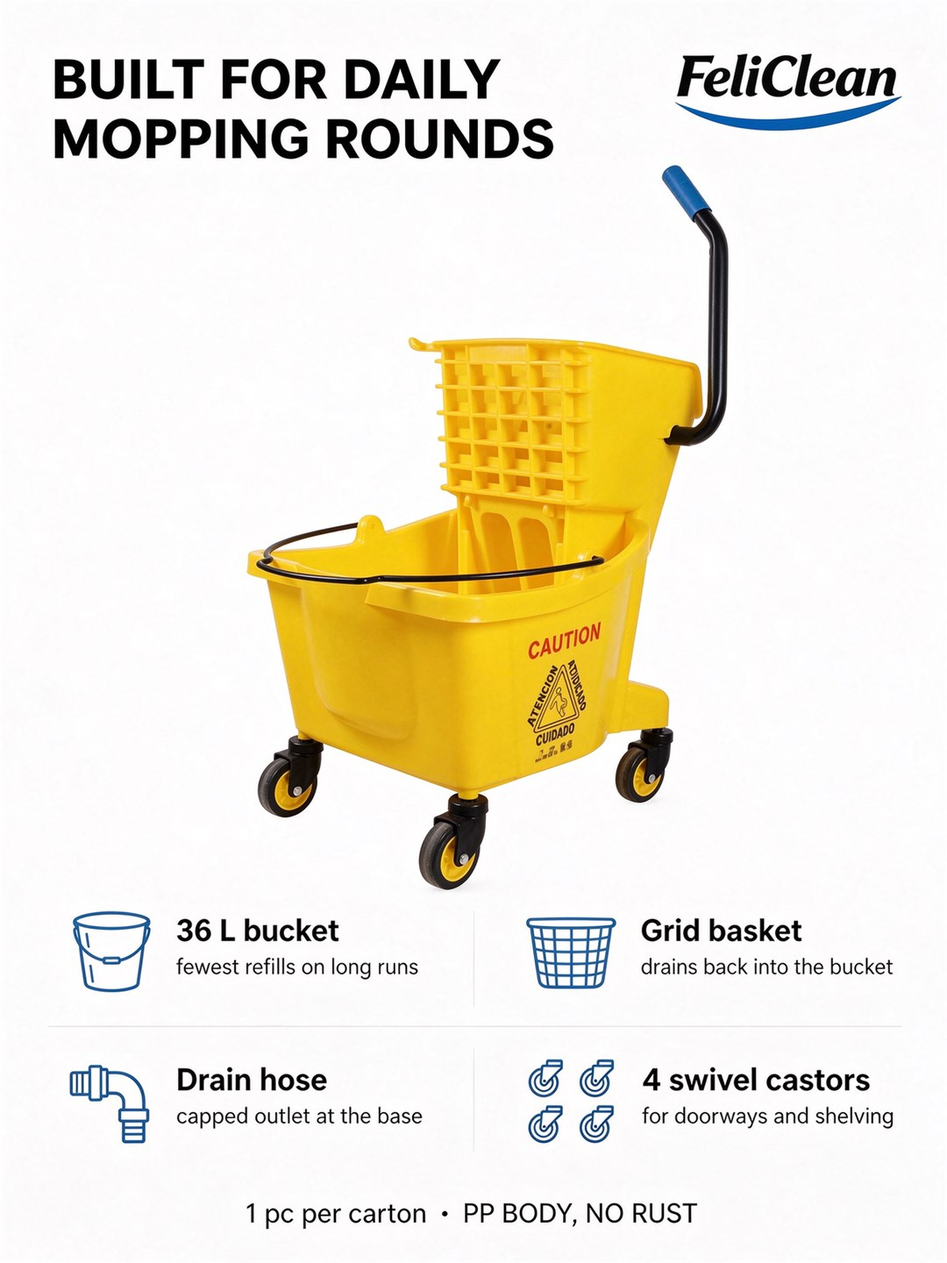
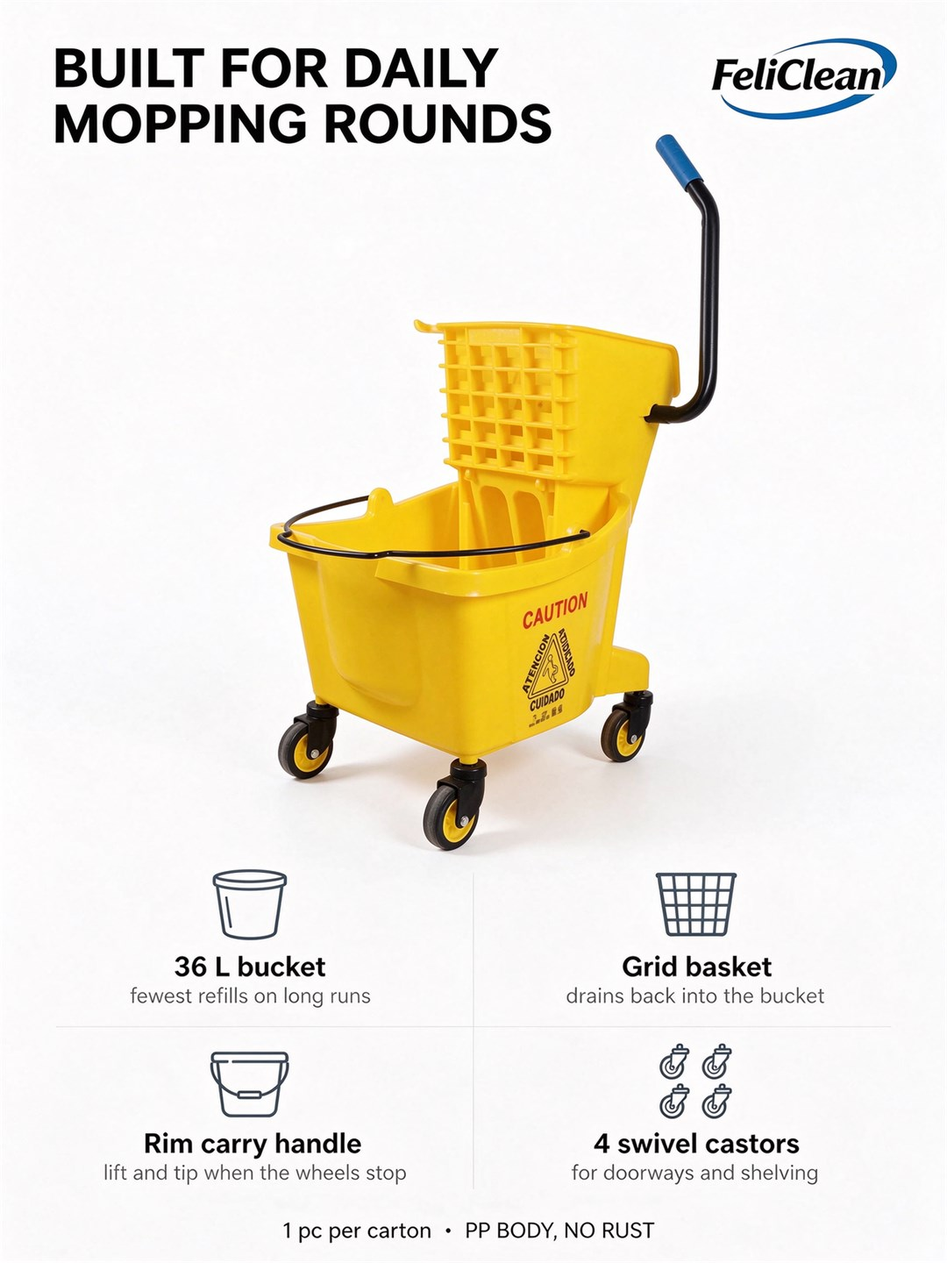
PWR-104A: correct spec to the supplied photo - no drain hose; rewrite title, meta, spec, features, description and JSON-LD, rename main image, regenerate poster 4 without hose, fix 103A/103B cross-links

diff --git a/pwr-104a.html b/pwr-104a.html
@@ -4,19 +4,19 @@
 <head>
   <meta charset="utf-8">
   <meta content="width=device-width, initial-scale=1.0" name="viewport">
-  <title>36L Single Mop Wringer Trolley with Drain Hose PWR-104A | Large Single-Bucket Mop Wringer for Schools, Warehouses &amp; Hospitals | Feliclean</title>
-  <meta name="description" content="36L single mop wringer trolley with drain hose PWR-104A for schools, hospitals, warehouses and large retail floors: one 36 litre bucket cuts refill trips, and the hose at the base lets you empty it without lifting. 55 × 39 × 91 cm, carton 51.5 × 41.5 × 36 cm, 1 pc per carton, four colours, factory direct from Guangzhou.">
-  <meta name="keywords" content="36L single mop wringer trolley with drain hose, large capacity mop wringer bucket, single bucket mop wringer trolley with drain hose, commercial mop wringer trolley, janitorial mop bucket 36 litre, PWR-104A">
+  <title>36L Single Mop Wringer Trolley PWR-104A | Large Single-Bucket Mop Wringer for Schools, Warehouses &amp; Hospitals | Feliclean</title>
+  <meta name="description" content="36L single mop wringer trolley PWR-104A for schools, hospitals, warehouses and large retail floors: a 36 litre bucket with a clip-on PP wringer basket cuts refill trips on long floors, four swivel castors and a rim carry handle for the last few metres. 55 × 39 × 91 cm, carton 51.5 × 41.5 × 36 cm, 1 pc per carton, four colours, factory direct from Guangzhou.">
+  <meta name="keywords" content="36L single mop wringer trolley, large capacity mop wringer bucket, 36 litre mop wringer trolley, commercial mop wringer trolley, single bucket mop wringer bucket, janitorial mop bucket 36 litre, PWR-104A">
   <link rel="canonical" href="https://feliclean.com/pwr-104a.html">
   <meta name="robots" content="index, follow">
 
   <meta property="og:type" content="product">
   <meta property="og:site_name" content="FeliClean">
-  <meta property="og:title" content="36L Single Mop Wringer Trolley with Drain Hose PWR-104A | Large Single-Bucket Mop Wringer for Schools, Warehouses and Hospitals">
-  <meta property="og:description" content="One 36 L bucket, a PP grid wringer basket over the rim and a capped drain hose at the base: fewer refills on long floors, and no lifting 36 litres of dirty water. 55 x 39 x 91 cm, 1 pc per carton, four colours.">
+  <meta property="og:title" content="36L Single Mop Wringer Trolley PWR-104A | Large Single-Bucket Mop Wringer for Schools, Warehouses and Hospitals">
+  <meta property="og:description" content="One 36 L bucket with a clip-on PP wringer basket over the rim: fewer refills on long floors, and a rim carry handle for the last few metres the castors cannot reach. 55 x 39 x 91 cm, 1 pc per carton, four colours.">
   <meta property="og:url" content="https://feliclean.com/pwr-104a.html">
-  <meta property="og:image" content="https://feliclean.com/assets/img/products/pwr-104a/pwr-104a-36l-single-mop-wringer-trolley-with-drain-hose-white-background.jpg">
-  <meta property="og:image:alt" content="36L single mop wringer trolley with drain hose PWR-104A, PP wringer basket and four swivel castors, white background">
+  <meta property="og:image" content="https://feliclean.com/assets/img/products/pwr-104a/pwr-104a-36l-single-mop-wringer-trolley-white-background.jpg">
+  <meta property="og:image:alt" content="36L single mop wringer trolley PWR-104A, clip-on PP wringer basket and four swivel castors, white background">
   <meta name="twitter:card" content="summary_large_image">
 
   <link href="assets/img/favicon.png" rel="icon">
@@ -38,13 +38,13 @@
 {
   "@context": "https://schema.org",
   "@type": "Product",
-  "name": "36L Single Mop Wringer Trolley with Drain Hose PWR-104A",
+  "name": "36L Single Mop Wringer Trolley PWR-104A",
   "sku": "PWR-104A",
   "mpn": "PWR-104A",
-  "category": "Large capacity single bucket mop wringer trolley with drain hose for schools, hospitals, warehouses and large retail floors",
-  "description": "36 litre single mop wringer trolley (PWR-104A) with a PP grid wringer basket over the bucket rim and a capped drain hose at the base, a carry handle on the rim and four swivel castors. Overall size 55 × 39 × 91 cm, carton 51.5 × 41.5 × 36 cm, 1 pc per carton, available in yellow, green, blue and red.",
+  "category": "Large capacity single bucket mop wringer trolley for schools, hospitals, warehouses and large retail floors",
+  "description": "36 litre single mop wringer trolley (PWR-104A) with a clip-on PP grid wringer basket hooked over the bucket rim, a rim carry handle and four swivel castors. Overall size 55 × 39 × 91 cm, carton 51.5 × 41.5 × 36 cm, 1 pc per carton, available in yellow, green, blue and red.",
   "image": [
-    "https://feliclean.com/assets/img/products/pwr-104a/pwr-104a-36l-single-mop-wringer-trolley-with-drain-hose-white-background.jpg",
+    "https://feliclean.com/assets/img/products/pwr-104a/pwr-104a-36l-single-mop-wringer-trolley-white-background.jpg",
     "https://feliclean.com/assets/img/products/pwr-104a/pwr-104a-poster-1-36l-single-mop-wringer-trolley.jpg",
     "https://feliclean.com/assets/img/products/pwr-104a/pwr-104a-poster-3-clip-on-wringer-basket.jpg"
   ],
@@ -82,11 +82,6 @@
       "@type": "PropertyValue",
       "name": "Wringer attachment",
       "value": "Clip-on PP basket hooked over the bucket rim"
-    },
-    {
-      "@type": "PropertyValue",
-      "name": "Drain",
-      "value": "Capped drain hose at the base"
     },
     {
       "@type": "PropertyValue",
@@ -184,15 +179,15 @@
           <div class="pdp-left">
           <div class="pdp-gallery">
             <div class="pdp-thumbs pdp-thumbs--many">
-              <button class="pdp-thumb active" data-full="assets/img/products/pwr-104a/pwr-104a-36l-single-mop-wringer-trolley-with-drain-hose-white-background.jpg" type="button"><img src="assets/img/products/pwr-104a/pwr-104a-36l-single-mop-wringer-trolley-with-drain-hose-white-background.jpg" alt="36L single mop wringer trolley with drain hose PWR-104A and four swivel castors for schools and hospitals, white background"></button>
-              <button class="pdp-thumb" data-full="assets/img/products/pwr-104a/pwr-104a-poster-1-36l-single-mop-wringer-trolley.jpg" type="button"><img src="assets/img/products/pwr-104a/pwr-104a-poster-1-36l-single-mop-wringer-trolley.jpg" alt="36L single mop wringer trolley with drain hose PWR-104A poster showing 36 L capacity, single bucket and 4 swivel castors for large floor cleaning"></button>
+              <button class="pdp-thumb active" data-full="assets/img/products/pwr-104a/pwr-104a-36l-single-mop-wringer-trolley-white-background.jpg" type="button"><img src="assets/img/products/pwr-104a/pwr-104a-36l-single-mop-wringer-trolley-white-background.jpg" alt="36L single mop wringer trolley PWR-104A and four swivel castors for schools and hospitals, white background"></button>
+              <button class="pdp-thumb" data-full="assets/img/products/pwr-104a/pwr-104a-poster-1-36l-single-mop-wringer-trolley.jpg" type="button"><img src="assets/img/products/pwr-104a/pwr-104a-poster-1-36l-single-mop-wringer-trolley.jpg" alt="36L single mop wringer trolley PWR-104A poster showing 36 L capacity, clip-on wringer basket and 4 swivel castors for large floor cleaning"></button>
               <button class="pdp-thumb" data-full="assets/img/products/pwr-104a/pwr-104a-poster-2-dimensions-and-carton.jpg" type="button"><img src="assets/img/products/pwr-104a/pwr-104a-poster-2-dimensions-and-carton.jpg" alt="PWR-104A mop wringer trolley dimensions poster showing 55 x 39 x 91 cm overall size and 51.5 x 41.5 x 36 cm carton for freight quotes"></button>
               <button class="pdp-thumb" data-full="assets/img/products/pwr-104a/pwr-104a-poster-3-clip-on-wringer-basket.jpg" type="button"><img src="assets/img/products/pwr-104a/pwr-104a-poster-3-clip-on-wringer-basket.jpg" alt="PWR-104A 36 litre mop wringer trolley poster showing the clip-on PP wringer basket hook locked over the bucket rim with grid drainage, for schools and warehouses"></button>
-              <button class="pdp-thumb" data-full="assets/img/products/pwr-104a/pwr-104a-poster-4-built-for-daily-mopping.jpg" type="button"><img src="assets/img/products/pwr-104a/pwr-104a-poster-4-built-for-daily-mopping.jpg" alt="PWR-104A mop wringer bucket poster with rust-free PP body, grid wringer basket, drain hose and four swivel castors built for daily mopping rounds"></button>
+              <button class="pdp-thumb" data-full="assets/img/products/pwr-104a/pwr-104a-poster-4-built-for-daily-mopping.jpg" type="button"><img src="assets/img/products/pwr-104a/pwr-104a-poster-4-built-for-daily-mopping.jpg" alt="PWR-104A mop wringer bucket poster with rust-free PP body, clip-on grid wringer basket, rim carry handle and four swivel castors built for daily mopping rounds"></button>
               <button class="pdp-thumb" data-full="assets/img/products/pwr-104a/pwr-104a-poster-5-factory-direct-guangzhou.jpg" type="button"><img src="assets/img/products/pwr-104a/pwr-104a-poster-5-factory-direct-guangzhou.jpg" alt="PWR-104A mop wringer trolley factory direct poster from Guangzhou with four colours, sample orders, OEM logo and EXW FOB CIF terms"></button>
             </div>
             <div class="pdp-main pdp-main--cap" id="pdpMain">
-              <img src="assets/img/products/pwr-104a/pwr-104a-36l-single-mop-wringer-trolley-with-drain-hose-white-background.jpg" alt="FeliClean PWR-104A 36L single mop wringer trolley with drain hose product main image, four swivel castors">
+              <img src="assets/img/products/pwr-104a/pwr-104a-36l-single-mop-wringer-trolley-white-background.jpg" alt="FeliClean PWR-104A 36L single mop wringer trolley product main image, clip-on wringer basket and four swivel castors">
             </div>
           </div>
 
@@ -201,13 +196,13 @@
               <table class="sd-spec-table">
                 <tbody>
                   <tr><th>Model</th><td>PWR-104A</td></tr>
-                  <tr><th>Product type</th><td>Single bucket mop wringer trolley with drain hose</td></tr>
+                  <tr><th>Product type</th><td>Single bucket mop wringer trolley (no drain hose)</td></tr>
                   <tr><th>Capacity</th><td>36 L</td></tr>
                   <tr><th>Overall size</th><td>55 × 39 × 91 cm (L × W × H, handle included)</td></tr>
                   <tr><th>Carton dimension</td><td>51.5 × 41.5 × 36 cm</td></tr>
                   <tr><th>Body material</th><td>Injection-moulded PP bucket and PP wringer basket</td></tr>
                   <tr><th>Wringer</th><td>Clip-on PP grid wringer basket, hooked over the bucket rim</td></tr>
-                  <tr><th>Drain</td><td>Capped drain hose at the base — empty without lifting</td></tr>
+                  <tr><th>Drain</th><td>No drain outlet on this model — bucket emptied by tipping at a floor drain or slop sink</td></tr>
                   <tr><th>Wheels</th><td>4 swivel castors with yellow rims</td></tr>
                   <tr><th>Colours</td><td>Yellow (standard), green, blue, red</td></tr>
                   <tr><th>Package</th><td>1 pc / ctn</td></tr>
@@ -216,17 +211,17 @@
             </div>
 
             <div class="pdp-desc">
-              <p>The PWR-104A is the 36 litre single bucket in our wringer trolley range with a capped drain hose at the base — the model for long floors where a 24 litre fill runs out before the job does, and where nobody wants to lift a full bucket at the end of a shift. Corridors, school halls, hospital wards, warehouse aisles, supermarket walkways and factory floors all mean the same thing in practice: fewer trips back to the tap, and the dirty water leaves the bucket without being carried.</p>
+              <p>The PWR-104A is the 36 litre single bucket in our wringer trolley range — the model for long floors where a 24 litre fill runs out before the job does. Corridors, school halls, hospital wards, warehouse aisles, supermarket walkways and factory floors all mean the same thing in practice: fewer trips back to the tap, and a bucket that still fits through a doorway with the mop in it. This is the plain bucket version: there is no hose outlet, so the dirty water leaves by tipping the bucket over a floor drain or a slop sink.</p>
               <p>Wringing happens over the bucket. The mop goes onto the PP grid basket at the rear, pressure squeezes the water out, and the grid drains it straight back into the fill instead of across the tiles. The mop leaves damp rather than dripping, so a floor takes one pass and the water you are mopping with goes further. The basket is a clip-on unit: its moulded hook seats over the bucket rim and locks there, so it stays put while you press, and the same hook lets you lift it off with one hand when it needs rinsing.</p>
-              <p>Emptying is the difference between this model and the plain bucket version. The drain hose sits at the base of the bucket under a cap: pull the trolley up to a floor drain or a gully, open the cap, and 36 litres run out through the hose while the trolley stays on its castors. No lifting, no tipping, no spill across the doorway. The cap stays tight while you mop, so the hose does not drip into the bucket you are working from, and there is nothing inside the bucket to kink or clog.</p>
-              <p>Everything that touches water is PP: bucket, wringer basket, hose outlet and the rim handle used when the wheels cannot go. Four swivel castors turn on the spot in a doorway or between shelving, and the bucket stands 90 cm at the handle, so pushing it does not mean stooping. Overall 55 × 39 × 91 cm with the handle; one piece packs into a 51.5 × 41.5 × 36 cm carton, which keeps sample freight and courier costs predictable. Yellow is stocked; green, blue and red are moulded to order so sites can colour-code by floor or by department.</p>
-              <p>Supply side: trolleys ship from our Guangzhou works, so trial quantities and single samples leave quickly, and mixed containers can be built with mops, dustbins, caution boards and service carts from the same catalogue. We quote EXW, FOB or CIF, print your logo for OEM and ODM orders, and keep spare castors, wringer baskets and hose caps for the life of the trolley. If you would rather empty by tipping than by hose, the <a href="pwr-103a.html">32 L single mop wringer trolley PWR-103A</a> is the plain bucket version; the <a href="pwr-103b.html">32 L single mop wringer trolley with the same drain hose PWR-103B</a> is one size down if your rooms need a smaller bucket; and if you want an even shorter run, compare the <a href="pwr-102b.html">24 L single mop wringer trolley with drain hose PWR-102B</a> and the <a href="pwr-102a.html">24 L single mop wringer trolley PWR-102A</a>; for clean and dirty water kept apart, the <a href="pwr-101.html">34 L double mop wringer trolley PWR-101</a> is the two-chamber option. Tell us the site, the quantity and the destination port, and we reply within one working day.</p>
+              <p>Emptying is manual on this model, and the rim handle is what makes it workable. Grip the black handle across the rim, lift the bucket clear and tip it over a floor drain or a janitor sink: the moulded lip directs the water into the drain instead of letting it spread across the floor, and the whole 36 litres go out in one controlled pour. Nothing to unclip, nothing to kink, and no hose to drip between fills. If emptying by hand is not acceptable on your site, the hose models do the same job from the base of the bucket.</p>
+              <p>Everything that touches water is PP: bucket, wringer basket and the rim handle used when the wheels cannot go. Four swivel castors turn on the spot in a doorway or between shelving, and the bucket stands 90 cm at the handle, so pushing it does not mean stooping. Overall 55 × 39 × 91 cm with the handle; one piece packs into a 51.5 × 41.5 × 36 cm carton, which keeps sample freight and courier costs predictable. Yellow is stocked; green, blue and red are moulded to order so sites can colour-code by floor or by department.</p>
+              <p>Supply side: trolleys ship from our Guangzhou works, so trial quantities and single samples leave quickly, and mixed containers can be built with mops, dustbins, caution boards and service carts from the same catalogue. We quote EXW, FOB or CIF, print your logo for OEM and ODM orders, and keep spare castors and wringer baskets for the life of the trolley. If you would rather not tip 36 litres by hand, the <a href="pwr-103b.html">32 L single mop wringer trolley with a capped drain hose PWR-103B</a> empties through a hose at the base; the <a href="pwr-103a.html">32 L single mop wringer trolley PWR-103A</a> is the same plain bucket one size down; for a shorter run compare the <a href="pwr-102b.html">24 L single mop wringer trolley with drain hose PWR-102B</a> and the <a href="pwr-102a.html">24 L single mop wringer trolley PWR-102A</a>; and for clean and dirty water kept apart, the <a href="pwr-101.html">34 L double mop wringer trolley PWR-101</a> is the two-chamber option. Tell us the site, the quantity and the destination port, and we reply within one working day.</p>
             </div>
           </div>
 
           <div class="pdp-info">
             <h1 class="pdp-title">36L Single Mop Wringer Trolley <span style="white-space:nowrap">PWR-104A</span></h1>
-            <p class="pdp-lead">A 36 litre single bucket with a PP wringer basket and a capped drain hose at the base, for schools, hospitals, warehouses and large retail floors: fewer refills on long runs, and the bucket empties without being lifted.</p>
+            <p class="pdp-lead">A 36 litre single bucket with a clip-on PP wringer basket, for schools, hospitals, warehouses and large retail floors: fewer refills on long runs, and a rim carry handle for the last few metres the castors cannot reach.</p>
 
             <div class="pdp-meta">
               <div class="pdp-meta-row"><span class="k">Model</span><span class="v">PWR-104A</span></div>
@@ -238,11 +233,11 @@
 
             <div class="sd-features">
               <div class="sd-feature"><i class="bi bi-check-circle-fill"></i>36 L fill: half as much water again as a 24 L bucket, so long corridors and warehouse aisles need fewer trips back to the tap.</div>
-              <div class="sd-feature"><i class="bi bi-check-circle-fill"></i>Capped drain hose at the base: pull up to a floor drain, open the cap and the bucket empties without lifting 36 litres of dirty water.</div>
-              <div class="sd-feature"><i class="bi bi-check-circle-fill"></i>PP grid wringer basket over the bucket: pressure squeezes the mop and the grid drains the water back into the fill, not onto the floor.</div>
-              <div class="sd-feature"><i class="bi bi-check-circle-fill"></i>Injection-moulded PP body, basket and hose outlet: no rust, resistant to bathroom, kitchen and industrial detergents.</div>
+              <div class="sd-feature"><i class="bi bi-check-circle-fill"></i>Rim carry handle: the black handle across the bucket rim takes the weight when you lift the bucket out to empty it or to fill it at a sink.</div>
+              <div class="sd-feature"><i class="bi bi-check-circle-fill"></i>Clip-on PP wringer basket hooked over the rim: pressure squeezes the mop and the grid drains the water back into the fill, not onto the floor.</div>
+              <div class="sd-feature"><i class="bi bi-check-circle-fill"></i>Injection-moulded PP body and basket: no rust, resistant to bathroom, kitchen and industrial detergents.</div>
               <div class="sd-feature"><i class="bi bi-check-circle-fill"></i>Four swivel castors with yellow rims, and a black rim handle for the places the wheels cannot go; 90 cm at the handle, so pushing does not mean stooping.</div>
-              <div class="sd-feature"><i class="bi bi-check-circle-fill"></i><span>55 × 39 × 91 cm, 51.5 × 41.5 × 36 cm carton, 1 pc per carton; yellow in stock, green / blue / red on request, samples and mixed containers from Guangzhou. Prefer emptying by tipping? See the <a href="pwr-103a.html">plain bucket 32 L PWR-103A</a>.</span></div>
+              <div class="sd-feature"><i class="bi bi-check-circle-fill"></i><span>55 × 39 × 91 cm, 51.5 × 41.5 × 36 cm carton, 1 pc per carton; yellow in stock, green / blue / red on request, samples and mixed containers from Guangzhou. Need a drain hose? The <a href="pwr-103b.html">32 L PWR-103B</a> and <a href="pwr-102b.html">24 L PWR-102B</a> empty through a capped hose at the base.</span></div>
             </div>
 
             <div class="pdp-actions">
@@ -378,7 +373,7 @@
       var quote = document.getElementById('quoteBtn');
       var wa = document.getElementById('waBtn');
       var MODEL = 'PWR-104A';
-      var PRODUCT = '36L Single Mop Wringer Trolley with Drain Hose PWR-104A';
+      var PRODUCT = '36L Single Mop Wringer Trolley PWR-104A';
       var WA_NUMBER = '8613427520701';
       var MAIL_TO = 'info@feliclean.com';
       function refresh() {

diff --git a/pwr-103a.html b/pwr-103a.html
@@ -219,7 +219,7 @@
             <div class="pdp-desc">
               <p>The PWR-103A is the 32 litre single bucket in our wringer trolley range — the model for long floors where a 24 litre fill runs out before the job does. Corridors, school halls, hospital wards, warehouse aisles, supermarket walkways and factory floors all mean the same thing in practice: fewer trips back to the tap, and a trolley that still pushes easily on four castors while it is heavy with water.</p>
               <p>Wringing is done over the bucket: the basket is a clip-on unit whose hook seats over the bucket rim, so it stays put while you press. The mop goes onto the PP grid, pressure squeezes the water out, and the grid drains it straight back into the fill instead of across the tiles. The mop leaves damp rather than dripping, so a floor takes one pass and the water you are mopping with goes further. When the basket needs rinsing, the same hook lets you lift it off with one hand.</p>
-              <p>This model is the plain bucket version: there is no drain hose on PWR-103A, so the bucket is emptied by tipping it over a floor drain or a toilet — the basket comes off first, and 32 litres then pours out in a straight stream with no hose to kink or clog. If emptying by hose matters more to you, the <a href="pwr-103b.html">32 L single mop wringer trolley with drain hose PWR-103B</a> is the same bucket with a capped hose at the base, the <a href="pwr-104a.html">36 L single mop wringer trolley with drain hose PWR-104A</a> adds capacity on top of that, and the <a href="pwr-102b.html">24 L single mop wringer trolley PWR-102B</a> is the smaller hose version of the range.</p>
+              <p>This model is the plain bucket version: there is no drain hose on PWR-103A, so the bucket is emptied by tipping it over a floor drain or a toilet — the basket comes off first, and 32 litres then pours out in a straight stream with no hose to kink or clog. If emptying by hose matters more to you, the <a href="pwr-103b.html">32 L single mop wringer trolley with drain hose PWR-103B</a> is the same bucket with a capped hose at the base, the <a href="pwr-104a.html">36 L single mop wringer trolley PWR-104A</a> adds capacity on top of that (same plain bucket, no hose), and the <a href="pwr-102b.html">24 L single mop wringer trolley PWR-102B</a> is the smaller hose version of the range.</p>
               <p>Everything that touches water is PP: bucket, wringer basket and the rim handle used when the wheels cannot go. The frame weighs about 7 kg empty, light enough to lift into a van or up a service stair, and the four swivel castors turn on the spot in a doorway or between shelving. Overall 54 × 38 × 90 cm with the handle; one piece packs into a 51.5 × 41.5 × 36 cm carton, which keeps sample freight and courier costs predictable. Yellow is stocked; green, blue and red are moulded to order so sites can colour-code by floor or by department.</p>
               <p>Supply side: trolleys ship from our Guangzhou works, so trial quantities and single samples leave quickly, and mixed containers can be built with mops, dustbins, caution boards and service carts from the same catalogue. We quote EXW, FOB or CIF, print your logo for OEM and ODM orders, and keep spare castors, wringer baskets and rim handles for the life of the trolley. If a smaller bucket suits your rooms better, compare the <a href="pwr-102b.html">24 L single mop wringer trolley with drain hose PWR-102B</a> and the <a href="pwr-102a.html">24 L single mop wringer trolley PWR-102A</a>; for clean and dirty water kept apart, the <a href="pwr-101.html">34 L double mop wringer trolley PWR-101</a> is the two-chamber version. Tell us the site, the quantity and the destination port, and we reply within one working day.</p>
             </div>

diff --git a/pwr-103b.html b/pwr-103b.html
@@ -237,7 +237,7 @@
               <div class="sd-feature"><i class="bi bi-check-circle-fill"></i>PP grid wringer basket over the bucket: pressure squeezes the mop and the grid drains the water back into the fill, not onto the floor.</div>
               <div class="sd-feature"><i class="bi bi-check-circle-fill"></i>Injection-moulded PP body, basket and hose outlet: no rust, resistant to bathroom, kitchen and industrial detergents.</div>
               <div class="sd-feature"><i class="bi bi-check-circle-fill"></i>Four swivel castors with yellow rims, and a black rim handle for the places the wheels cannot go; 90 cm at the handle, so pushing does not mean stooping.</div>
-              <div class="sd-feature"><i class="bi bi-check-circle-fill"></i><span>56 × 35 × 90 cm, 50.5 × 39 × 36.5 cm carton, 1 pc per carton; yellow in stock, green / blue / red on request, samples and mixed containers from Guangzhou. Prefer emptying by tipping? See the <a href="pwr-103a.html">plain bucket 32 L PWR-103A</a>. Need more water? The <a href="pwr-104a.html">36 L PWR-104A</a> is the same hose in a bigger bucket.</span></div>
+              <div class="sd-feature"><i class="bi bi-check-circle-fill"></i><span>56 × 35 × 90 cm, 50.5 × 39 × 36.5 cm carton, 1 pc per carton; yellow in stock, green / blue / red on request, samples and mixed containers from Guangzhou. Prefer emptying by tipping? See the <a href="pwr-103a.html">plain bucket 32 L PWR-103A</a>. Need more water? The <a href="pwr-104a.html">36 L PWR-104A</a> is the same trolley in a bigger bucket, without the hose.</span></div>
             </div>
 
             <div class="pdp-actions">

diff --git a/assets/js/products-data.js b/assets/js/products-data.js
@@ -709,10 +709,10 @@ window.FELI_PRODUCTS = [
   },
   {
     href: "pwr-104a.html",
-    img: "assets/img/products/pwr-104a/pwr-104a-36l-single-mop-wringer-trolley-with-drain-hose-white-background.jpg",
-    alt: "36L single mop wringer trolley with drain hose PWR-104A, clip-on PP basket and four swivel castors for schools, hospitals and warehouses, white background",
+    img: "assets/img/products/pwr-104a/pwr-104a-36l-single-mop-wringer-trolley-white-background.jpg",
+    alt: "36L single mop wringer trolley PWR-104A, clip-on PP wringer basket and four swivel castors for schools, hospitals and warehouses, white background",
     model: "PWR-104A",
-    name: "36L Single Mop Wringer Trolley with Drain Hose",
+    name: "36L Single Mop Wringer Trolley",
     group: "pl",
     cat: "wringer-trolley",
     parent: "wringer-trolley"
